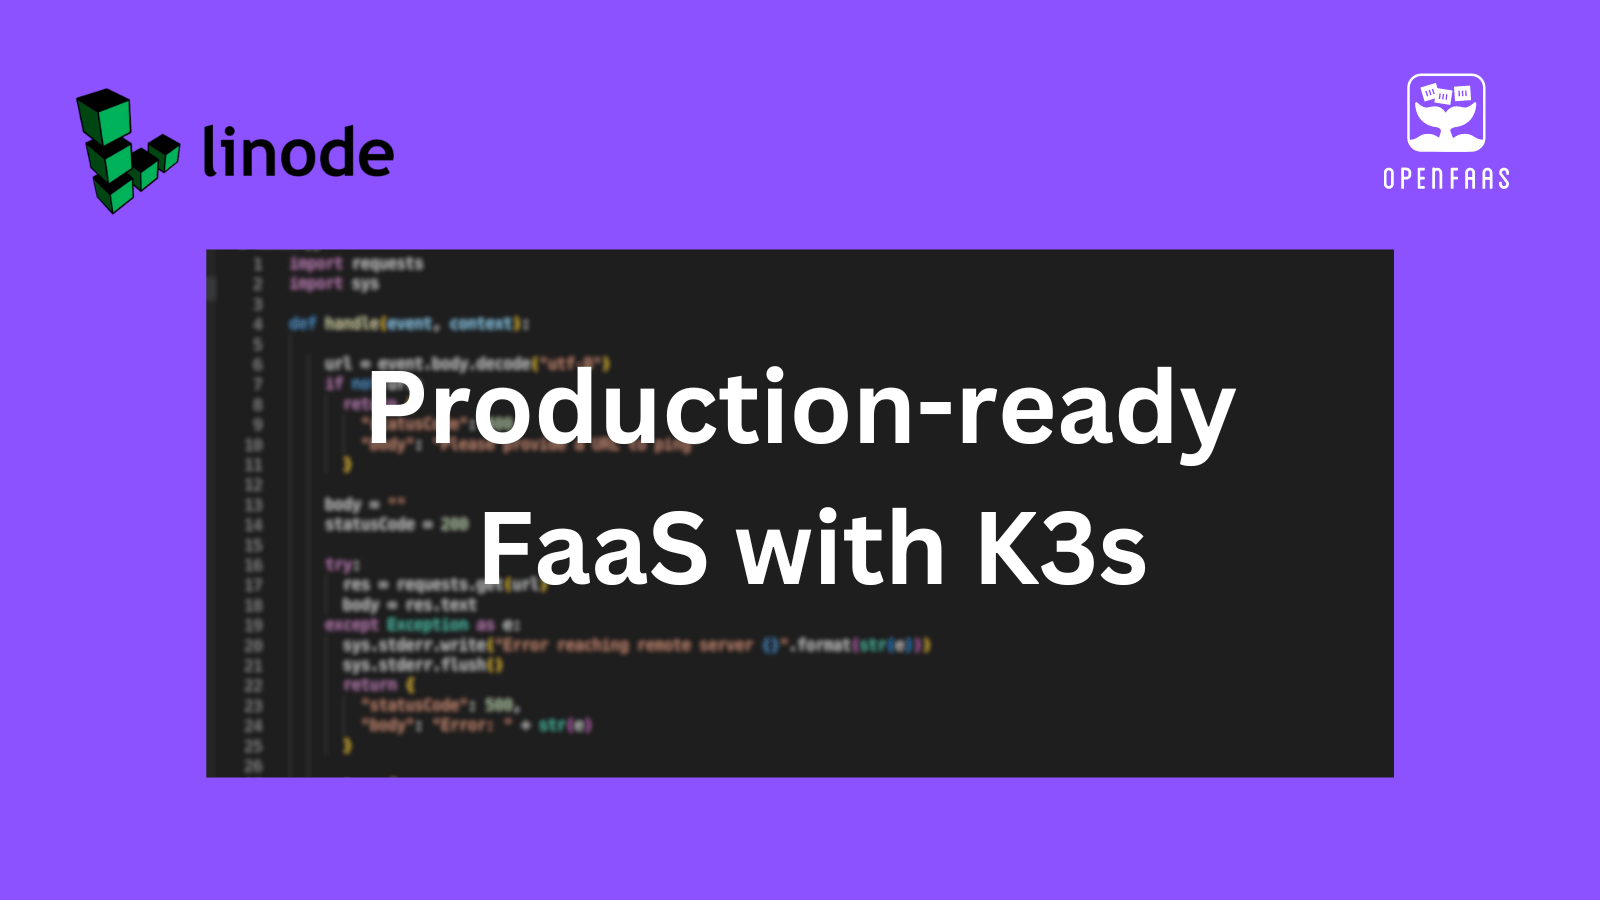
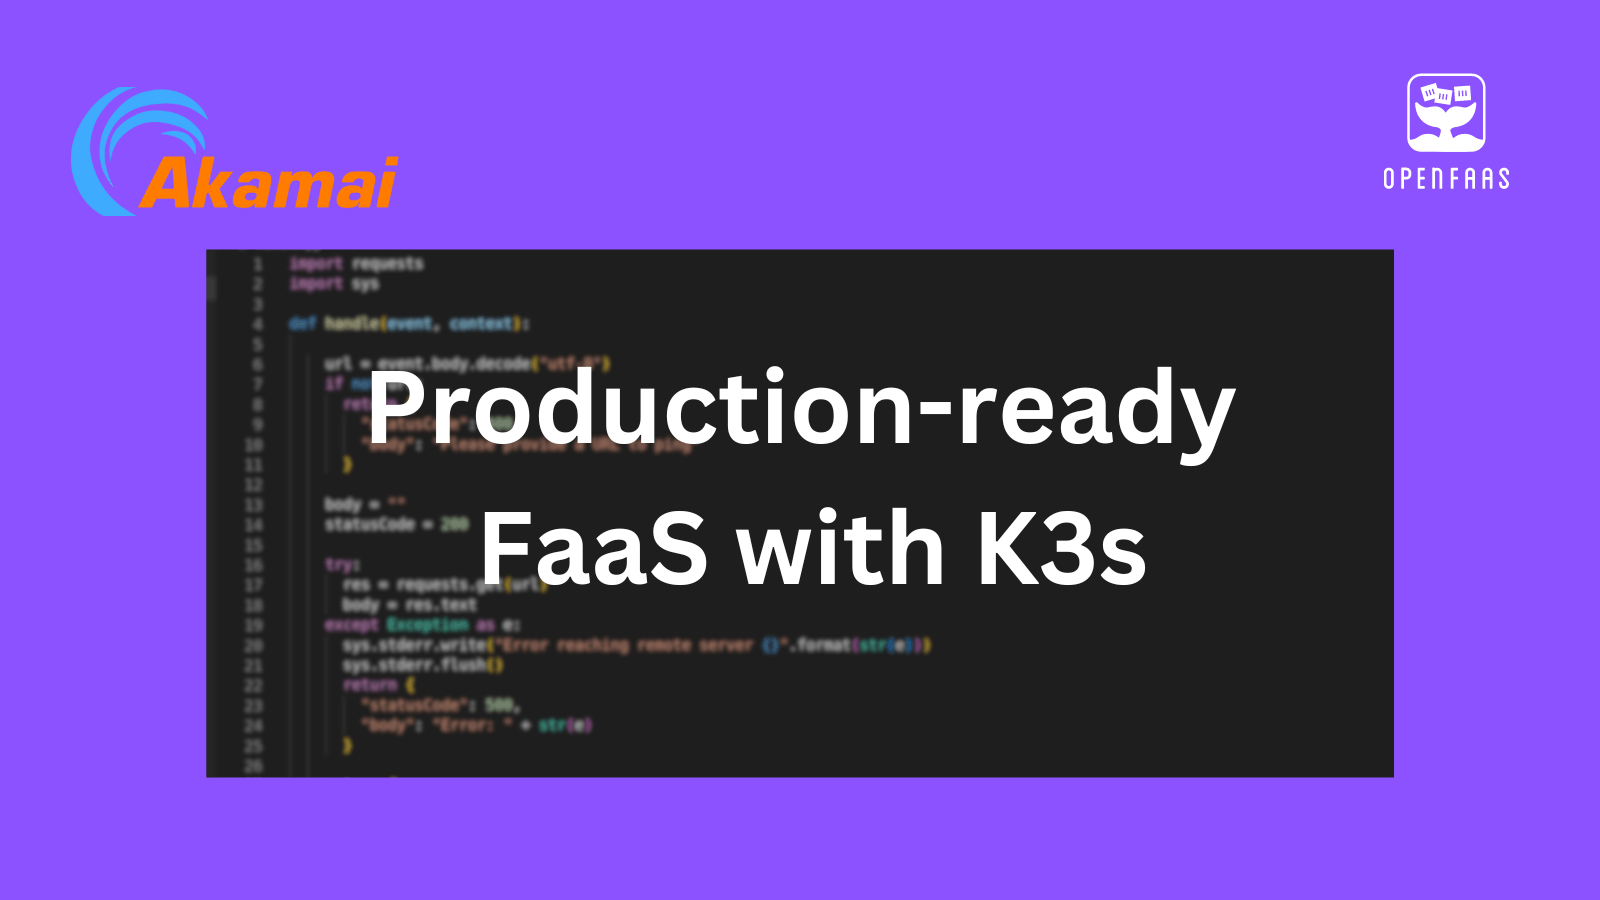
Update background image and title to Akamai

Changed region(s): [[0.0312, 0.0933, 0.25, 0.2489]]

diff --git a/_posts/2023-08-18-production-faas-linode.md b/_posts/2023-08-18-production-faas-linode.md
@@ -1,11 +1,12 @@
 ---
-title: "How to set up production-ready K3s with OpenFaaS on Linode"
-description: "Learn how to setup K3s for production on Linode, along with OpenFaaS for functions."
+title: "How to set up production-ready K3s with OpenFaaS with Akamai Cloud Computing"
+description: "Learn how to setup K3s for production with Akamai Cloud Computing, along with OpenFaaS for functions."
 date: 2023-08-18
 categories:
 - openfaas
 - k3s
 - linode
+- akamai
 - functions
 dark_background: true
 image: "/images/2023-08-linode-k3s/background.png"
@@ -13,7 +14,10 @@ author_staff_member: alex
 hide_header_image: true
 ---
 
-In this guide we'll show you how to setup and configure K3s for production use on Linode. Then we'll set up OpenFaaS so that we can deploy functions to the cluster.
+In this guide we'll show you how to setup and configure K3s for production use with Akamai Cloud Computing. Then we'll set up OpenFaaS so that we can deploy functions to the cluster.
+
+> Did you know? Linode was acquired by Akamai, and is now being branded as "Akamai Cloud Computing".
+> The rebranding is still in-progress, so we'll be referring to Linode throughout this article.
 
 [K3s](https://k3s.io) is a production-ready distribution of Kubernetes that was originally developed by Darren Shepherd at Rancher Labs, before donating it to the [Cloud Native Computing Foundation (CNCF)](https://cncf.io). It's become one of the most popular ways to run Kubernetes on-premises, at the edge, and on IoT devices. So why would you run it on Linode when Linode already offers its own Linode Kubernetes Engine (LKE)?
 
